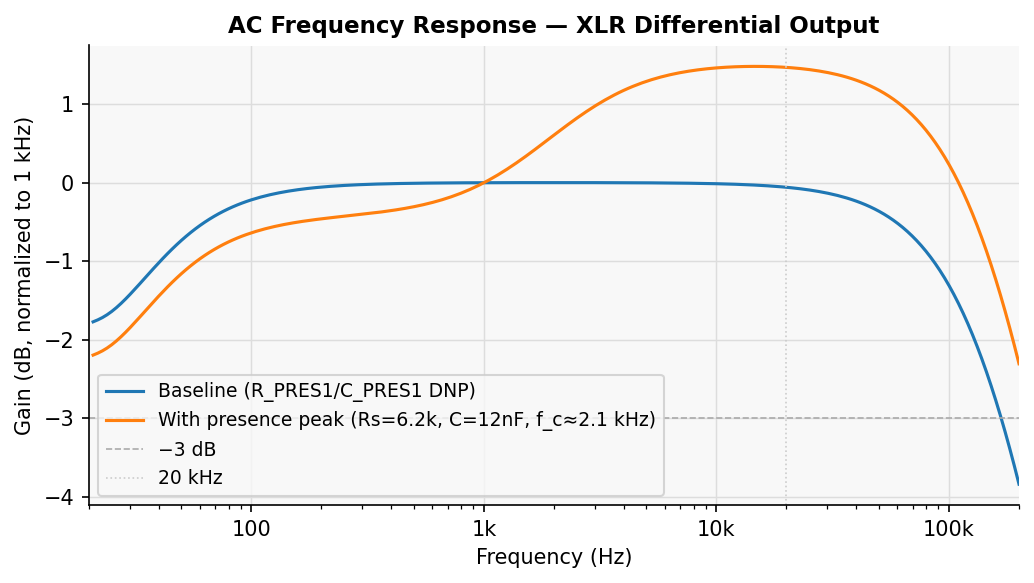
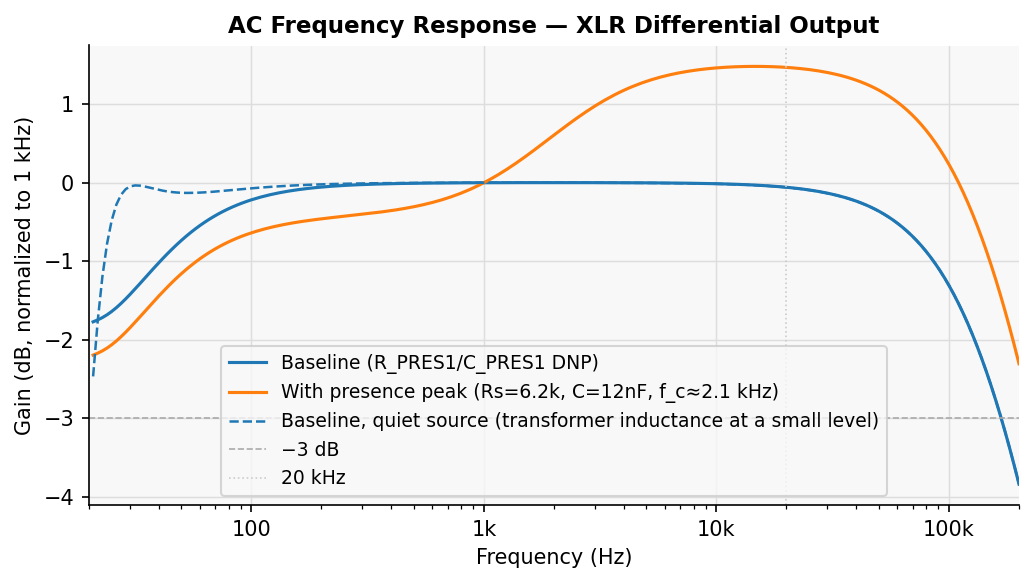
sim, docs: transformer branch scaled by level: K = 1 loud, K = 0.41 quiet (#137)
The inductance falls with level, to about half for a small signal, and the
resonance with C_DC moves from 18 Hz to 25 Hz. NTE10_3 takes a factor K on its
magnetising branch: 1 as fitted at a larger level (the default), 0.41 for the
resonance measured at a small level with C_DC at its nominal value.

With K = 0.41 the whole-microphone low end (#128) is met within 0.9 dB rms at
20 to 100 Hz, against 1.7 dB with K = 1. The response plot draws both. Nothing
changes above 100 Hz or in sensitivity.

Claude-Session: https://claude.ai/code/session_01JJVE6iPs7mqtayJNH2CABt

Changed region(s): [[0.0928, 0.5866, 0.8665, 0.8645], [0.6499, 0.8336, 0.8665, 0.8645], [0.1238, 0.3087, 0.3404, 0.3396]]

diff --git a/sim/plot_all.py b/sim/plot_all.py
@@ -237,6 +237,9 @@ def plot_freq_response():
         lambda s: s.replace('\n.control', '\n' + PRESENCE_PEAK_LINES + '\n.control', 1)
     )
 
+    # the transformer's inductance at a small level (passives.lib, K=0.41): quiet sources
+    freq_quiet, db_quiet = _run_ac(lambda s: s.replace("XLR_P3  NTE10_3", "XLR_P3  NTE10_3 K=0.41", 1))
+
     mask = (freq_base >= 20) & (freq_base <= 200000)
 
     fig, ax = plt.subplots(figsize=(7, 4))
@@ -245,6 +248,9 @@ def plot_freq_response():
                 label="Baseline (R_PRES1/C_PRES1 DNP)")
     ax.semilogx(freq_peak[mask_peak], db_peak[mask_peak], color=C2, lw=1.5,
                 label="With presence peak (Rs=6.2k, C=12nF, f_c≈2.1 kHz)")
+    mask_quiet = (freq_quiet >= 20) & (freq_quiet <= 200000)
+    ax.semilogx(freq_quiet[mask_quiet], db_quiet[mask_quiet], color=C1, lw=1.2, ls="--",
+                label="Baseline, quiet source (transformer inductance at a small level)")
     ax.axhline(-3, color="#aaaaaa", lw=0.8, ls="--", label="−3 dB")
     ax.axvline(20000, color="#cccccc", lw=0.8, ls=":", label="20 kHz")
     ax.set_xlabel("Frequency (Hz)")

diff --git a/README.md b/README.md
@@ -51,15 +51,19 @@ Behavioral model, gain normalized to 1 kHz. The **blue curve** (baseline / DNP) 
 > - a magnetising branch of 17.9 H in series with 8.5 H ∥ 2.23 kΩ, fitted to the part's response with the output side open;
 > - no core loss resistor: none shows in the levels.
 >
-> Against the whole microphone the model agrees in level (within 0.5 dB at 1 kHz), in the 8.8 dB between the two wirings (8.9), and in the response from 50 Hz up. **Below 50 Hz it does not yet agree:**
+> Against the whole microphone the model agrees in level (within 0.5 dB at 1 kHz), in the 8.8 dB between the two wirings (8.9), and in the response from 50 Hz up.
+>
+> **Below 50 Hz the response depends on how loud the source is.** The transformer's inductance falls with level, to about half for quiet sources, and with it the resonance with C_DC moves from 18 Hz to 25 Hz (measured through the board's own output network; the phantom supply's direct current has no effect). The model's branch takes a factor `K` for this: `K = 1` is the part as fitted at a larger level, `K = 0.41` reproduces the resonance measured at a small level. The plot shows both.
 >
 > | | 20 Hz | 30 Hz | 50 Hz | 100 Hz |
 > |---|---|---|---|---|
-> | measured, whole microphone, tap wiring, presence fitted, 1.2 kΩ (relative to 1 kHz; #128) | −5.0 dB | −0.6 dB | −1.4 dB | −0.7 dB |
-> | model, same conditions | −1.9 dB | −1.8 dB | −1.2 dB | −0.6 dB |
-> | model as plotted (baseline, no presence, 600 Ω) | −1.8 dB | −1.4 dB | −0.7 dB | −0.2 dB |
+> | measured, whole microphone, tap wiring, presence fitted, 1.2 kΩ, small level (relative to 1 kHz; #128) | −5.0 dB | −0.6 dB | −1.4 dB | −0.7 dB |
+> | model, same conditions, `K = 0.41` (quiet source) | −3.5 dB | −0.3 dB | −0.5 dB | −0.5 dB |
+> | model, same conditions, `K = 1` (loud source) | −1.9 dB | −1.8 dB | −1.2 dB | −0.6 dB |
+> | model as plotted (baseline, no presence, 600 Ω), `K = 0.41` | −3.3 dB | 0.0 dB | −0.1 dB | −0.1 dB |
+> | model as plotted, `K = 1` | −1.8 dB | −1.4 dB | −0.7 dB | −0.2 dB |
 >
-> The microphone has less at 20 Hz and a small bump at 30 Hz, as a lower inductance (about 8 H) would give with C_DC. The part was measured with no direct current in any winding; whether that is the difference is not known.
+> The measured row is from another transformer and board than the one the values were taken from. `K = 0.41` assumes C_DC at its nominal 4.7 µF; only the product of the inductance and C_DC was measured in the network.
 >
 > The measured row is on a board with the presence network, which lowers the band below 1 kHz by about 0.4 dB against 1 kHz. On the full winding the measured response is −3 dB at 33 Hz and −5 dB at 20 Hz, set by the input network.
  The **orange curve** shows the optional presence-peak network populated: +2.6 dB shelving above f_c ≈ 2.1 kHz.

diff --git a/docs/measurement.md b/docs/measurement.md
@@ -224,7 +224,7 @@ group of inputs is optional, so a partial session still gives a partial report.
 | Result | Simulation | What a difference means |
 |---|---|---|
 | Gain at 1 kHz | about −2.0 dB into 4 kΩ with a 56 pF dummy, with the transformer's measured 3.58:1 (#137) (sensitivity about −40 dBV/Pa with a 13 mV/Pa capsule); about 0.2 dB lower on boards up to v3.6 (100 Ω RFI resistors) | more than ±1.5 dB off: check R3, R6, the load value and the meter readings |
-| Low-frequency −3 dB corner | about 30 Hz on the full winding (set by the input network); on the 3-turn section about 22 Hz (−5 dB at 20 Hz, nearly flat from 30 Hz) | measured on the 3-turn section (#128); `sim/models/passives.lib` uses the branch measured on the part alone (about 22 H at 20 Hz), which gives less roll-off than this below 50 Hz; not yet reconciled (#137, `docs/transformer.md`) |
+| Low-frequency −3 dB corner | about 30 Hz on the full winding (set by the input network); on the 3-turn section about 22 Hz (−5 dB at 20 Hz, nearly flat from 30 Hz) | measured on the 3-turn section (#128); the transformer's inductance falls with level, so this corner moves: `sim/models/passives.lib` has `K = 1` for a larger level and `K = 0.41` for a small one such as this measurement (#137, `docs/transformer.md`) |
 | Fit error | below about 1 dB | larger: the low end is not behaving like the model. Compare with the hot sweep for saturation |
 | Self-noise | about 20 dB(A) equivalent with a 47 to 56 pF dummy (18.9 with a 55 pF capsule); about 45 nV/√Hz at 1 kHz, 12 nV/√Hz at 10 kHz | higher at low frequency only: leakage or hum. Higher everywhere: supply or interface noise. Check the interface margin line |
 | Interface margin | 10 dB or more | less: raise the preamp gain and repeat S3, N1, N2 |

diff --git a/docs/transformer.md b/docs/transformer.md
@@ -115,8 +115,10 @@ Relative to 1 kHz, where the level is the same at all four (−11.90 dB re playe
   like about 8 H, while the part behind 1.2 kΩ at a larger level looks like 22 H.
 - Only the product of inductance and capacitance comes out of this. C_DC under its 12 V bias has not been
   measured on its own.
-- The model's branch is one fixed set of values, fitted at a larger level. It describes loud signals; for
-  quiet ones the real low end has less at 20 Hz and a higher, taller bump.
+- The model's branch takes a factor `K` for this (`sim/models/passives.lib`): `K = 1` is the branch as fitted
+  above at a larger level, `K = 0.41` puts the resonance near 25 Hz with C_DC at its nominal 4.7 µF, as
+  measured at the smallest level. With `K = 0.41` the whole-microphone response (#128, a different unit)
+  is met within 0.9 dB rms at 20, 30, 50 and 100 Hz, against 1.7 dB with `K = 1`.
 
 ## Distortion
 
